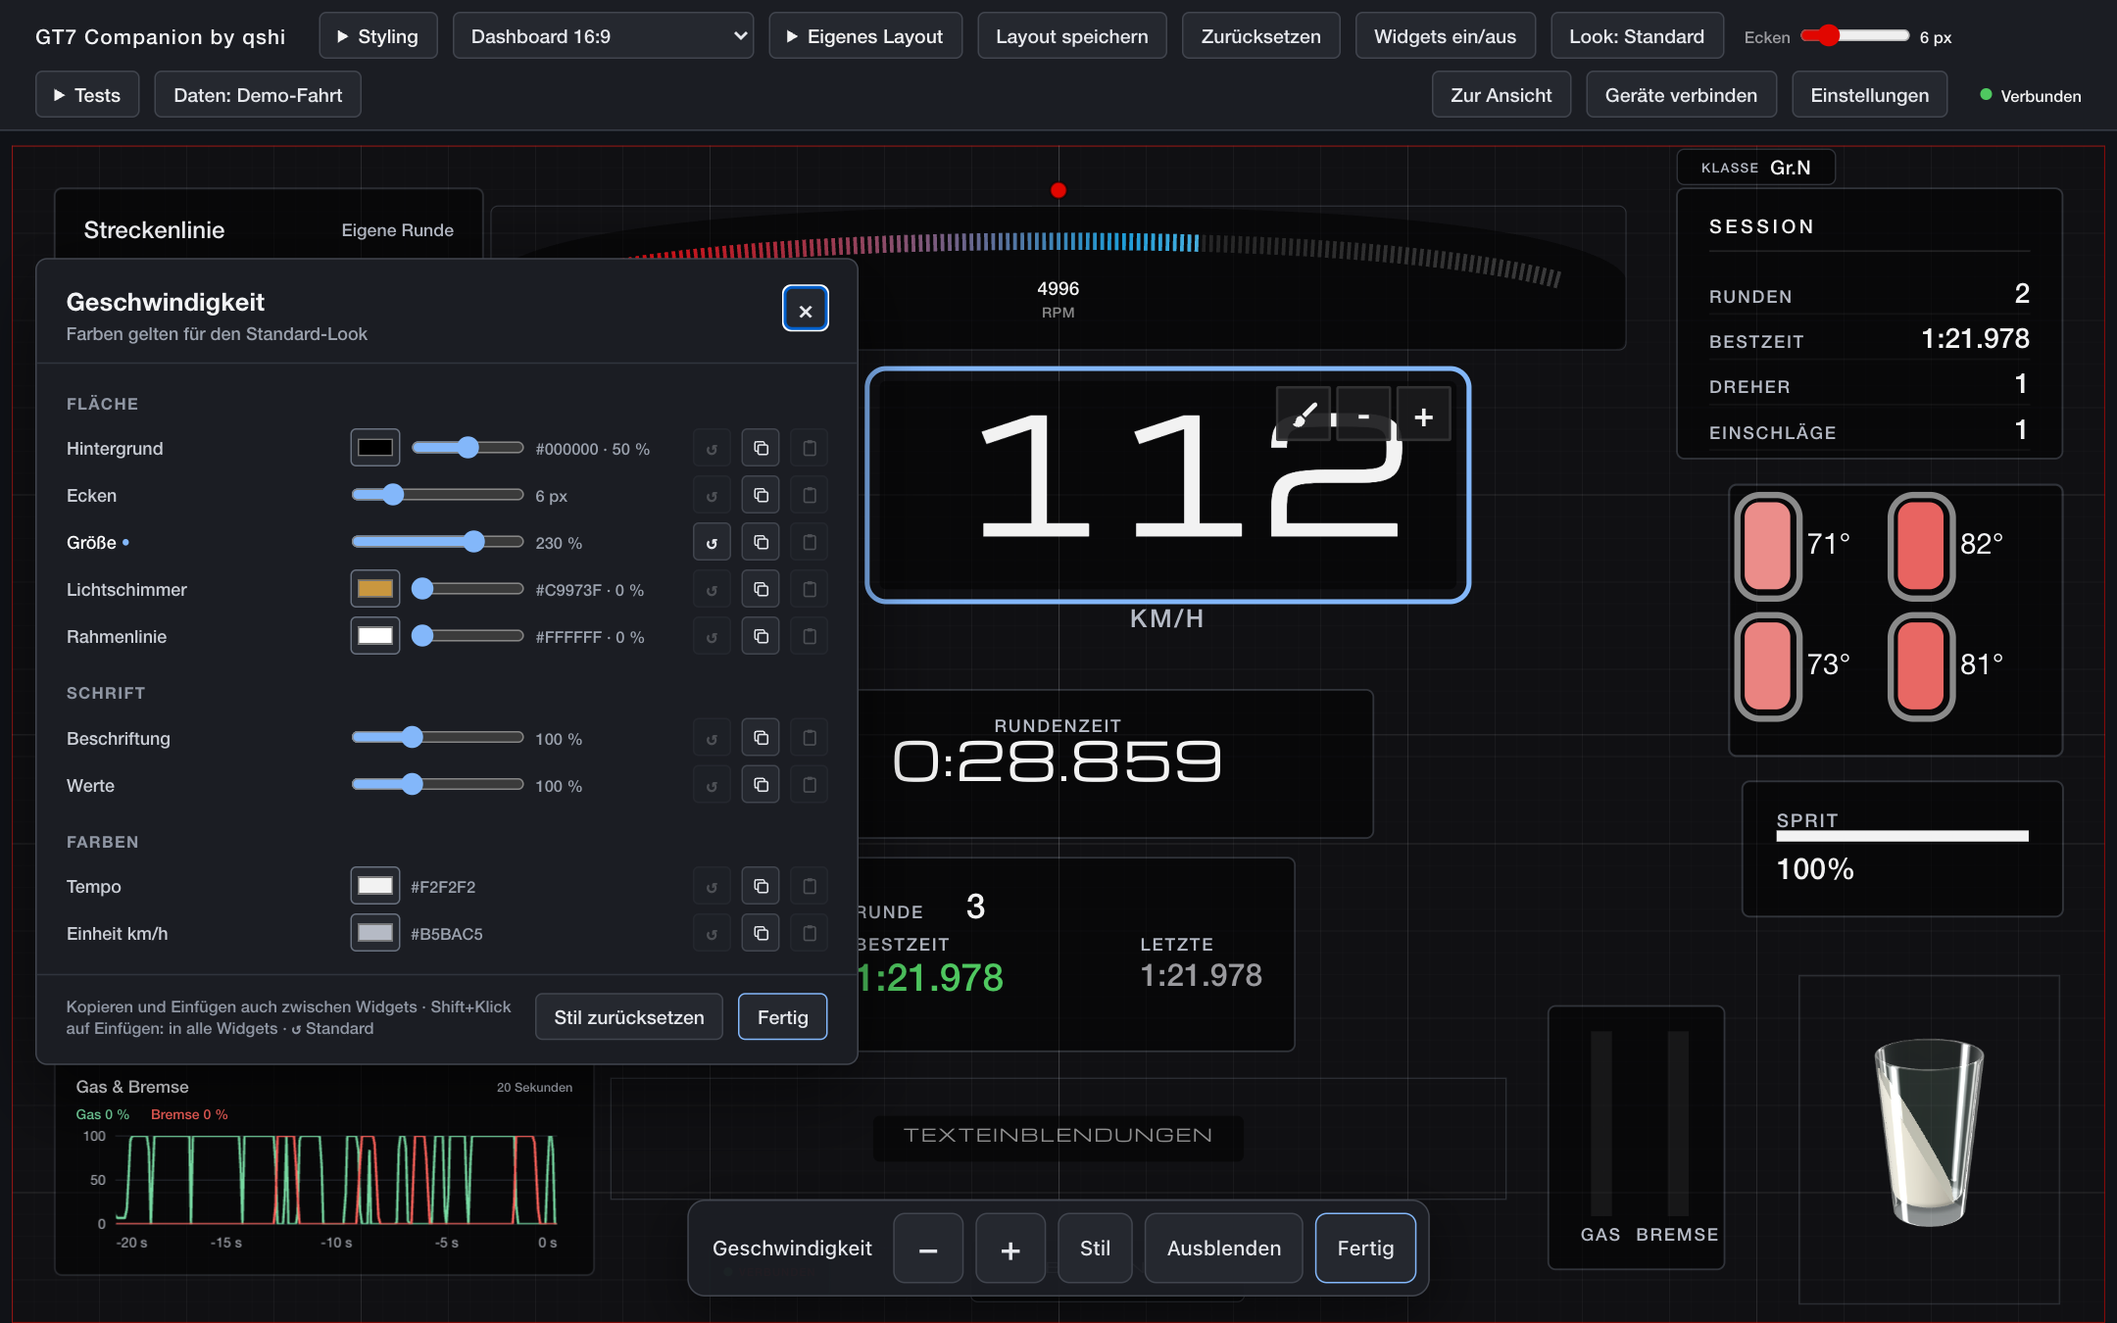
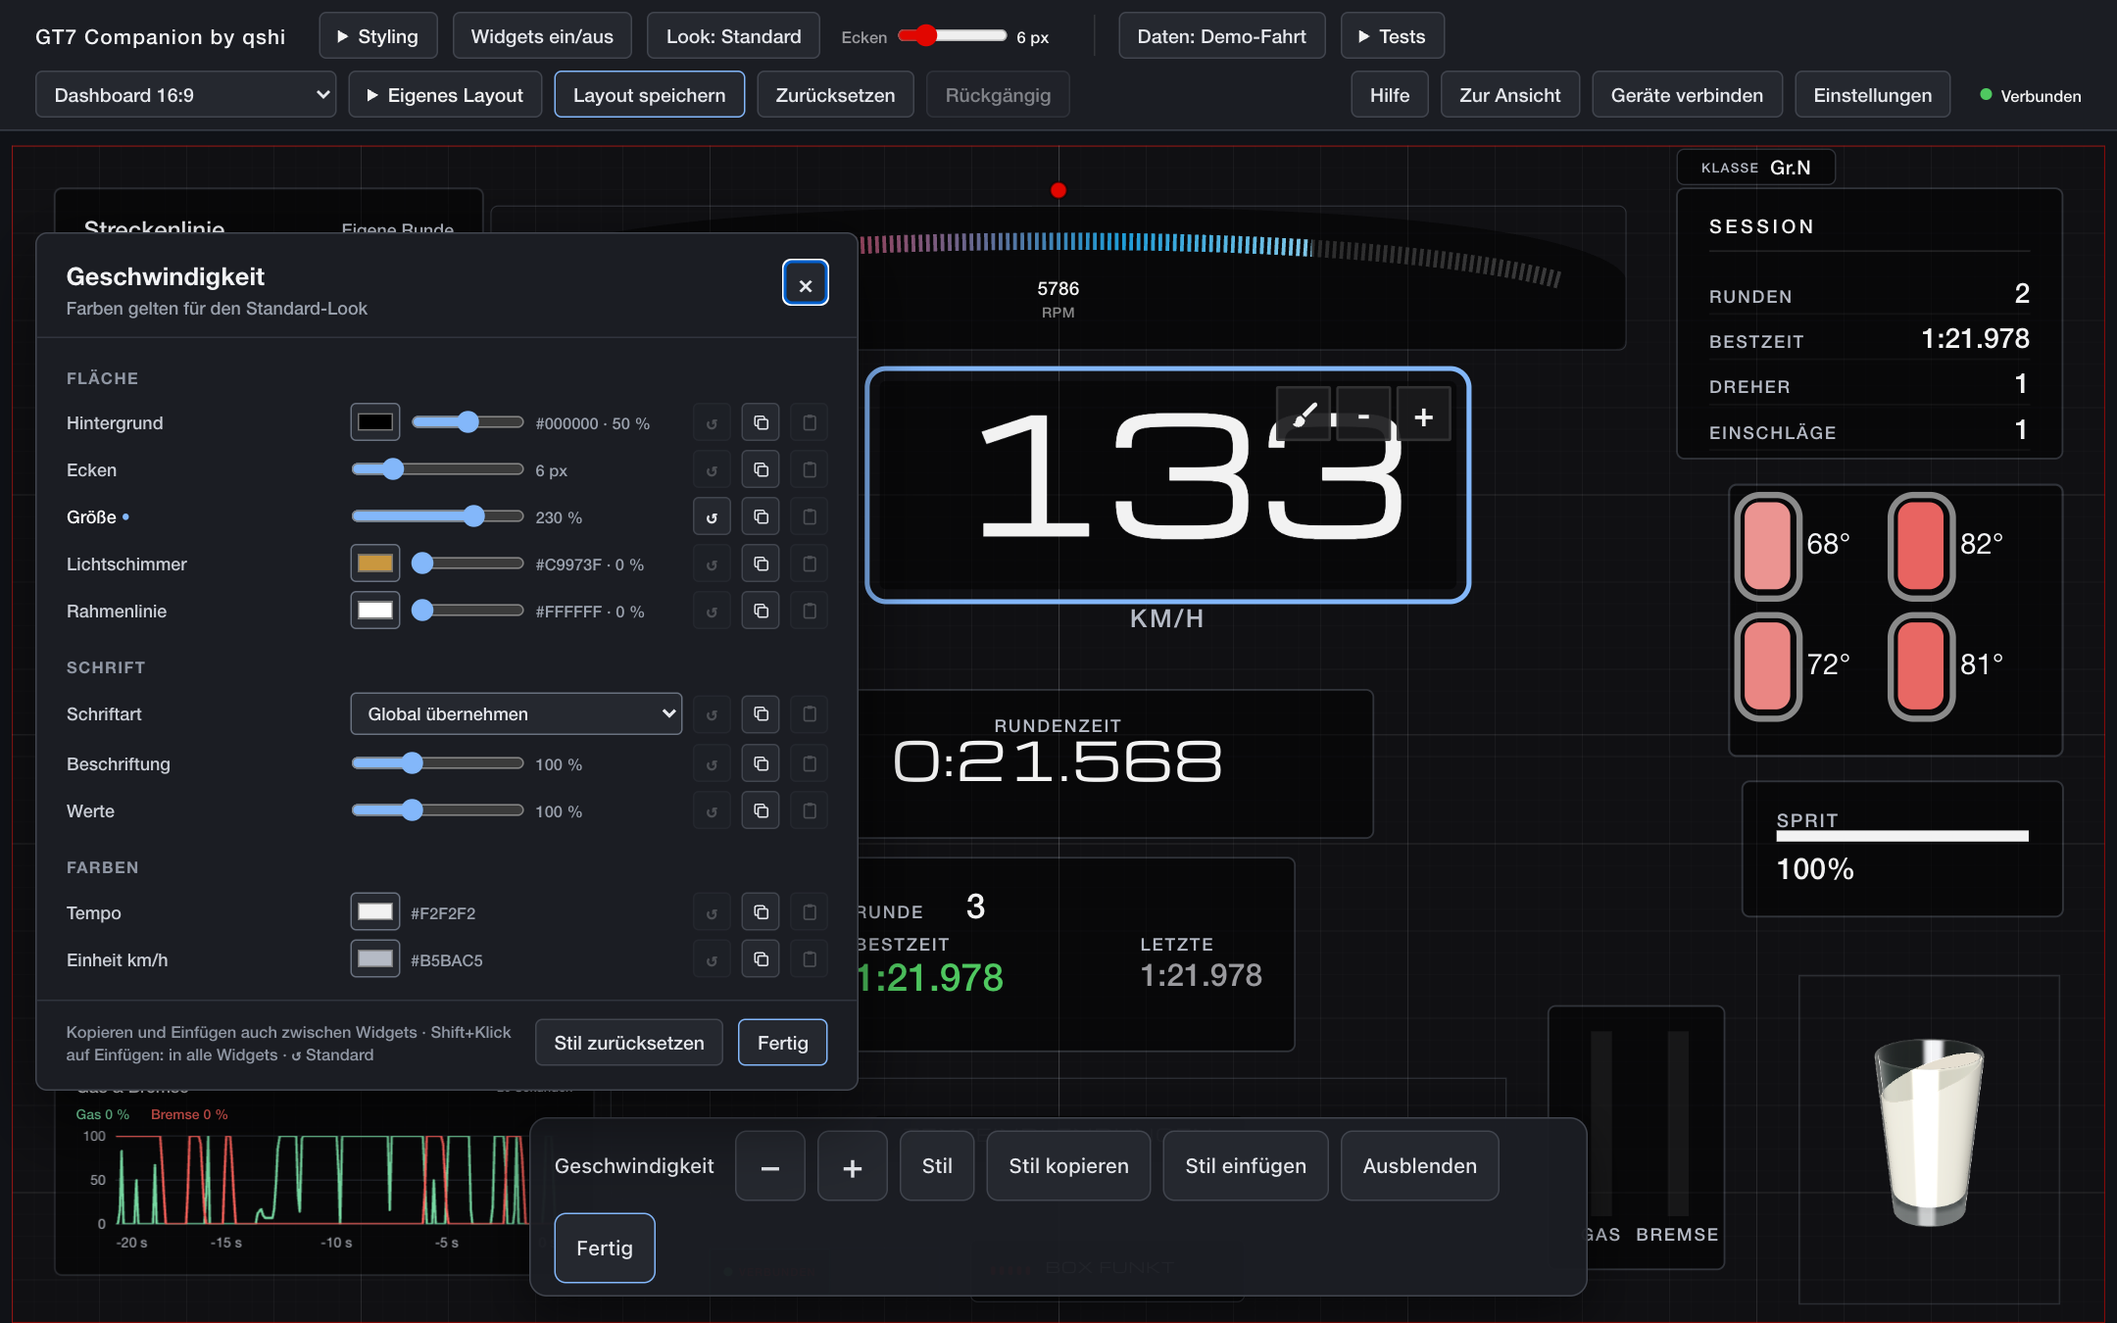
The guides show the start page, the strip of the demo drive and the tour
README and install guide in both languages say that the program opens with
the start page, that the PlayStation is chosen there now, and what "Start"
and "Hilfe" in the dashboard's menu do. All pictures are taken again from
the program: the menu and the editor's toolbar as they are now, a new one
of the start page, and the dashboards with the display font in its place.

diff --git a/tools/screenshots.py b/tools/screenshots.py
@@ -1,7 +1,7 @@
 """Take the pictures for README and install guide from the running program itself.
 
     python tools/screenshots.py            (needs Playwright; GT7C_CHROMIUM may name a Chromium to use)
-    python tools/screenshots.py plain      only connect and settings: done in seconds, no waiting for a lap
+    python tools/screenshots.py plain      only connect, start and settings: done in seconds, no waiting for a lap
     python tools/screenshots.py game       only the game and the menu that leads to it (waits for two laps)
 
 Starts the program with the demo drive in a temporary folder, waits until its first lap is
@@ -184,6 +184,11 @@ def main() -> int:
             page.wait_for_function("() => /^[0-9]{6}$/.test(document.getElementById('pin').textContent)")
             page.wait_for_timeout(600)
             shoot(page, language, "connect", full_page=True)
+            page.goto(f"http://127.0.0.1:{PORT}/start")
+            page.wait_for_function("() => !document.getElementById('choices').disabled")
+            page.wait_for_function("() => !document.getElementById('start-screen-row').hidden")
+            page.wait_for_timeout(400)
+            shoot(page, language, "start", full_page=True)
             page.goto(f"http://127.0.0.1:{PORT}/settings")
             page.wait_for_selector("#form", state="visible")
             page.wait_for_timeout(400)

diff --git a/README.de.md b/README.de.md
@@ -36,7 +36,11 @@ Rechner, für ein Tablet neben dem Rig oder als Browser-Quelle in OBS.
   für Google Gemini.
   Für Bestzeiten, Dreher und Einschläge gibt es jeweils 50 positive Funk-Varianten in beiden Sprachen.
 - **Eine Demo-Fahrt** ist eingebaut: eine aufgezeichnete Fahrt über vier Runden. Du kannst alles
-  ohne Konsole ausprobieren, auch die Rundenzeiten und den Untergrund-Ring.
+  ohne Konsole ausprobieren, auch die Rundenzeiten und den Untergrund-Ring. Solange sie läuft,
+  steht das als Streifen im Dashboard – damit niemand sie für die eigene Fahrt hält.
+- **Eine Startseite und ein kurzer Rundgang:** Beim Start wählst du, woher die Daten kommen –
+  deine PlayStation oder die Demo-Fahrt. Beim ersten Öffnen zeigen ein paar Sprechblasen, was wo ist;
+  „Hilfe“ im Menü holt sie zurück.
 - **Tisch Turismo**, ein kleines Spiel nebenbei: Ein Spielzeugauto fährt auf einem Schreibtisch
   nach, was du fährst, und deine eigenen früheren Runden fahren dagegen. Gedacht für die
   Zuschauer eines Streams.
@@ -62,19 +66,27 @@ den Ring siehst du also ohne Konsole.*
 ## Start
 
 **Mac mit Apple-Chip (macOS 14 oder neuer): die App.** [GT7-Companion-by-qshi-mac-arm64.dmg](https://github.com/qshiqshi/gt7-companion-by-qshi/releases/latest/download/GT7-Companion-by-qshi-mac-arm64.dmg)
-laden, öffnen, die App in „Programme“ ziehen und starten. Sie zeigt das Dashboard in einem
-eigenen Fenster, mit einem Symbol im Dock und in der Menüleiste. Das Fenster zu schließen
-beendet sie nicht – Tablets und OBS bekommen weiter ihre Daten; beendet wird mit ⌘Q oder über
-das Symbol.
+laden, öffnen, die App in „Programme“ ziehen und starten. Sie läuft in einem eigenen Fenster,
+mit einem Symbol im Dock und in der Menüleiste, und beginnt mit der Startseite. Das Fenster zu
+schließen beendet sie nicht – Tablets und OBS bekommen weiter ihre Daten; beendet wird mit ⌘Q
+oder über das Symbol.
 
 **Windows 10 oder 11: das Programm als ZIP.** [GT7-Companion-by-qshi-windows-x64.zip](https://github.com/qshiqshi/gt7-companion-by-qshi/releases/latest/download/GT7-Companion-by-qshi-windows-x64.zip)
-laden, entpacken und im Ordner `gt7companion.exe` starten. Es zeigt das Dashboard in einem
-eigenen Fenster, mit einem Symbol neben der Uhr. Es ist nicht signiert: Windows fragt beim
-ersten Start nach (**Weitere Informationen** → **Trotzdem ausführen**).
+laden, entpacken und im Ordner `gt7companion.exe` starten. Es läuft in einem eigenen Fenster,
+mit einem Symbol neben der Uhr, und beginnt mit der Startseite. Es ist nicht signiert: Windows
+fragt beim ersten Start nach (**Weitere Informationen** → **Trotzdem ausführen**).
 
 **Alle anderen: aus dem Quelltext.** Die Anleitung Schritt für Schritt steht in
 [docs/INSTALL.de.md](docs/INSTALL.de.md) (Doppelklick auf `start-windows.bat` bzw.
 `start-mac.command`).
+
+<img src="docs/images/de/start.png" width="430" align="right" alt="Die Startseite: Datenquelle wählen, Dashboard öffnen, mehr daraus machen">
+
+**Die Startseite** sagt, woher die Daten gerade kommen – deine PlayStation oder die Demo-Fahrt –,
+und führt mit einem Klick ins Dashboard, in den Editor und zu den anderen Seiten. Wer sie nicht
+braucht, schaltet sie dort per Häkchen ab; „Start“ im Menü des Dashboards führt zurück.
+
+<br clear="both">
 
 > **Frühe Fassung.** Geprüft mit automatischen Tests, mit einem Nachbau der Konsole und des
 > Sprachdienstes und – die App und die Box auf dem Mac – auf einem Mac mit macOS 27 und einer
@@ -110,7 +122,7 @@ Hinweise in der Datei, auch zum Signieren).
 
 1. Konsole und Rechner sind im selben Heimnetz.
 2. Gran Turismo 7 starten.
-3. Unter *Einstellungen* „PlayStation im Heimnetz“ wählen (oder mit `--live` starten).
+3. Auf der Startseite „PlayStation“ wählen (oder unter *Einstellungen*, oder mit `--live` starten).
 
 Die Konsole wird von selbst gefunden, ihre Adresse gemerkt. Kommt nichts an:
 
@@ -240,9 +252,10 @@ Ohne die Box läuft alles andere wie gewohnt.
 
 <br clear="both">
 
-Das Menü des Dashboards erscheint, wenn du den Zeiger bewegst oder den Bildschirm berührst:
+Das Menü des Dashboards erscheint, wenn du den Zeiger bewegst oder den Bildschirm berührst.
+„Start“ führt zur Startseite, „Hilfe“ zeigt den Rundgang noch einmal:
 
-<img src="docs/images/de/menu.png" width="540" alt="Menü des Dashboards: Sprechen, Ton an, Layout, Tisch Turismo, Bearbeiten, Vollbild">
+<img src="docs/images/de/menu.png" width="540" alt="Menü des Dashboards: Start, Sprechen, Ton an, Layout, Tisch Turismo, Bearbeiten, Vollbild, Hilfe">
 
 ## Datenschutz und Sicherheit
 

diff --git a/README.md b/README.md
@@ -34,7 +34,11 @@ computer, for a tablet next to your rig, or as a browser source in OBS.
   Gemini API key.
   Best laps, spins and impacts have 50 positive radio variants each, in either language.
 - **A demo drive** is built in: a recorded drive of four laps. You can try everything without
-  a console, lap times and the surface ring included.
+  a console, lap times and the surface ring included. While it plays, a strip in the dashboard
+  says so – nobody should take it for their own drive.
+- **A start page and a short tour:** when the program starts you choose where the data comes
+  from – your PlayStation or the demo drive. The first time, a few speech bubbles show what is
+  where; "Help" in the menu brings them back.
 - **Tisch Turismo**, a little game on the side: a toy car on a desk drives what you drive, and
   your own earlier laps race against it. Made for the viewers of a stream.
 
@@ -60,18 +64,26 @@ see the ring without a console.*
 
 **Mac with Apple silicon (macOS 14 or newer): the app.** Download
 [GT7-Companion-by-qshi-mac-arm64.dmg](https://github.com/qshiqshi/gt7-companion-by-qshi/releases/latest/download/GT7-Companion-by-qshi-mac-arm64.dmg),
-open it, drag the app to "Applications" and start it. It shows the dashboard in a window of
-its own, with an icon in the Dock and a symbol in the menu bar. Closing the window does not
-quit it – tablets and OBS keep getting their data; quit with ⌘Q or through the symbol.
+open it, drag the app to "Applications" and start it. It runs in a window of its own, with an
+icon in the Dock and a symbol in the menu bar, and opens with the start page. Closing the window
+does not quit it – tablets and OBS keep getting their data; quit with ⌘Q or through the symbol.
 
 **Windows 10 or 11: the program as a ZIP.** Download
 [GT7-Companion-by-qshi-windows-x64.zip](https://github.com/qshiqshi/gt7-companion-by-qshi/releases/latest/download/GT7-Companion-by-qshi-windows-x64.zip),
-unpack it and start `gt7companion.exe` in the folder. It shows the dashboard in a window of its
-own, with a symbol next to the clock. It is not signed: Windows asks on the first start
-(**More info** → **Run anyway**).
+unpack it and start `gt7companion.exe` in the folder. It runs in a window of its own, with a
+symbol next to the clock, and opens with the start page. It is not signed: Windows asks on the
+first start (**More info** → **Run anyway**).
 
 **Everybody else: from source.** The step-by-step guide is
 [docs/INSTALL.md](docs/INSTALL.md) (double-click `start-windows.bat` or `start-mac.command`).
+
+<img src="docs/images/en/start.png" width="430" align="right" alt="The start page: choose the data source, open the dashboard, make more of it">
+
+**The start page** says where the data comes from right now – your PlayStation or the demo
+drive – and leads to the dashboard, the editor and the other pages with one click. If you do not
+need it, switch it off there with its tick; "Start" in the dashboard's menu leads back.
+
+<br clear="both">
 
 > **Early version.** Checked with automated tests, with a stand-in for the console and for the
 > voice service and – the app and the Box on the Mac – on one Mac with macOS 27 and a real
@@ -106,7 +118,7 @@ The app itself is built with `python packaging/build.py` (needs
 
 1. Console and computer are in the same home network.
 2. Start Gran Turismo 7.
-3. Choose *PlayStation in the home network* under *Settings* (or start with `--live`).
+3. Choose "PlayStation" on the start page (or under *Settings*, or start with `--live`).
 
 The console is found by itself; its address is remembered. If nothing arrives:
 
@@ -230,9 +242,10 @@ Without the Box everything else works as usual.
 
 <br clear="both">
 
-The menu of the dashboard appears when you move the pointer or touch the screen:
+The menu of the dashboard appears when you move the pointer or touch the screen. "Start" leads
+to the start page, "Help" shows the tour again:
 
-<img src="docs/images/en/menu.png" width="540" alt="Menu of the dashboard: Talk, Sound on, layout, Tisch Turismo, Edit, Full screen">
+<img src="docs/images/en/menu.png" width="540" alt="Menu of the dashboard: Start, Talk, Sound on, layout, Tisch Turismo, Edit, Full screen, Help">
 
 ## Privacy and safety
 

diff --git a/docs/INSTALL.de.md b/docs/INSTALL.de.md
@@ -11,8 +11,8 @@ Python, ohne Terminal:
 
 1. [GT7-Companion-by-qshi-mac-arm64.dmg](https://github.com/qshiqshi/gt7-companion-by-qshi/releases/latest/download/GT7-Companion-by-qshi-mac-arm64.dmg) laden und öffnen.
 2. Die App in den Ordner „Programme“ ziehen und von dort starten.
-3. Ein Fenster zeigt das Dashboard mit einer Demo-Fahrt. Weiter geht es bei
-   [4. PlayStation verbinden](#4-playstation-verbinden).
+3. Ein Fenster zeigt die Startseite. **Dashboard öffnen** zeigt eine Demo-Fahrt; weiter geht
+   es bei [4. PlayStation verbinden](#4-playstation-verbinden).
 
 Das Fenster zu schließen beendet die App nicht: Tablets und OBS bekommen weiter ihre Daten. Ein
 Klick auf das Symbol im Dock oder oben rechts in der Menüleiste holt das Fenster zurück; beendet
@@ -28,8 +28,8 @@ Programm als ZIP – ohne Python, ohne Installation:
    `gt7companion.exe` starten. Das Programm ist nicht signiert, deshalb zeigt Windows „Der
    Computer wurde durch Windows geschützt“: **Weitere Informationen** → **Trotzdem ausführen**.
    Der allererste Start dauert etwas länger.
-3. Ein Fenster zeigt das Dashboard mit einer Demo-Fahrt. Weiter geht es bei
-   [4. PlayStation verbinden](#4-playstation-verbinden).
+3. Ein Fenster zeigt die Startseite. **Dashboard öffnen** zeigt eine Demo-Fahrt; weiter geht
+   es bei [4. PlayStation verbinden](#4-playstation-verbinden).
 
 Das Fenster zu schließen beendet das Programm nicht: Tablets und OBS bekommen weiter ihre Daten.
 Das Symbol neben der Uhr (es versteckt sich manchmal hinter dem kleinen Pfeil) holt das Fenster
@@ -81,15 +81,19 @@ Die ZIP-Datei entpacken und den Ordner dorthin legen, wo er bleiben kann, zum Be
   Windows geschützt“: **Weitere Informationen** → **Trotzdem ausführen**.
 
 Der erste Start richtet alles ein und dauert ein paar Minuten. Dann erscheint ein kleines
-Symbol – am Mac oben rechts in der Menüleiste, unter Windows neben der Uhr – und das
-Dashboard öffnet sich im Browser mit einer Demo-Fahrt.
+Symbol – am Mac oben rechts in der Menüleiste, unter Windows neben der Uhr – und im Browser
+öffnet sich die Startseite. **Dashboard öffnen** zeigt eine Demo-Fahrt.
 
 Beenden: auf das Symbol klicken → **Beenden**. Wieder starten: Doppelklick auf dieselbe Datei.
 
 <img src="images/de/dashboard.png" width="640" alt="Dashboard">
 
+Beim ersten Öffnen zeigen ein paar Sprechblasen, was wo ist. Solange die Demo-Fahrt läuft, steht
+unten ein Streifen „Demo-Fahrt“.
+
 Bewegst du den Zeiger (oder berührst den Bildschirm), erscheint oben rechts ein kleines Menü –
-mit **Bearbeiten** ordnest du das Dashboard um:
+mit **Bearbeiten** ordnest du das Dashboard um, **Hilfe** zeigt die Sprechblasen noch einmal,
+**Start** führt zurück zur Startseite:
 
 <img src="images/de/menu.png" width="540" alt="Menu">
 
@@ -97,8 +101,10 @@ mit **Bearbeiten** ordnest du das Dashboard um:
 
 1. PlayStation und Rechner sind im selben Heimnetz (kein Gäste-WLAN).
 2. Gran Turismo 7 starten.
-3. Symbol → **Einstellungen** → *Woher kommen die Daten?* → **PlayStation im Heimnetz** →
-   **Speichern**.
+3. Auf der Startseite **PlayStation** wählen. (Aus dem Dashboard dorthin: Menü → **Start**.
+   Dasselbe geht über Symbol → **Einstellungen** → *Woher kommen die Daten?*.)
+
+<img src="images/de/start.png" width="430" alt="Start">
 
 Die Konsole wird von selbst gefunden. Beim ersten Mal fragt dein Rechner, ob das Programm
 Daten aus dem Netz empfangen darf – erlauben (Windows: „Zugriff zulassen“; Mac: „Erlauben“).

diff --git a/docs/INSTALL.md b/docs/INSTALL.md
@@ -11,7 +11,7 @@ Python, no Terminal:
 
 1. Download [GT7-Companion-by-qshi-mac-arm64.dmg](https://github.com/qshiqshi/gt7-companion-by-qshi/releases/latest/download/GT7-Companion-by-qshi-mac-arm64.dmg) and open it.
 2. Drag the app into the "Applications" folder and start it from there.
-3. A window shows the dashboard with a demo drive. Go on with
+3. A window shows the start page. **Open the dashboard** shows a demo drive; go on with
    [4. Connect your PlayStation](#4-connect-your-playstation).
 
 Closing the window does not quit the app: tablets and OBS keep getting their data. A click on
@@ -27,7 +27,7 @@ as a ZIP – no Python, no installer:
 2. Put the folder where it can stay, for example in "Documents", and start `gt7companion.exe`
    in it. The program is not signed, so Windows shows "Windows protected your PC": **More
    info** → **Run anyway**. The very first start takes a little longer.
-3. A window shows the dashboard with a demo drive. Go on with
+3. A window shows the start page. **Open the dashboard** shows a demo drive; go on with
    [4. Connect your PlayStation](#4-connect-your-playstation).
 
 Closing the window does not quit the program: tablets and OBS keep getting their data. The
@@ -77,14 +77,18 @@ ZIP and move the folder to a place where it can stay, for example your Documents
 
 The first start sets everything up and takes a few minutes. Then a small symbol appears –
 on the Mac in the menu bar at the top right, on Windows in the tray next to the clock – and
-the dashboard opens in your browser with a demo drive.
+the start page opens in your browser. **Open the dashboard** shows a demo drive.
 
 To quit, click the symbol → **Quit**. To start again, double-click the same file.
 
 <img src="images/en/dashboard.png" width="640" alt="Dashboard">
 
+The first time, a few speech bubbles show what is where. While the demo drive plays, a strip
+at the bottom says "Demo drive".
+
 Move the pointer (or touch the screen) and a small menu appears at the top right – with
-**Edit** you rearrange the dashboard:
+**Edit** you rearrange the dashboard, **Help** shows the speech bubbles again, **Start** leads
+back to the start page:
 
 <img src="images/en/menu.png" width="540" alt="Menu">
 
@@ -92,8 +96,10 @@ Move the pointer (or touch the screen) and a small menu appears at the top right
 
 1. PlayStation and computer are in the same home network (not a guest Wi-Fi).
 2. Start Gran Turismo 7.
-3. Click the symbol → **Settings** → *Where does the data come from?* → **PlayStation in the
-   home network** → **Save**.
+3. Choose **PlayStation** on the start page. (From the dashboard: menu → **Start**. The same
+   works through the symbol → **Settings** → *Where does the data come from?*.)
+
+<img src="images/en/start.png" width="430" alt="Start">
 
 The console is found by itself. The first time your computer asks whether the program may
 receive data from the network – allow it (Windows: "Allow access"; Mac: "Allow").
